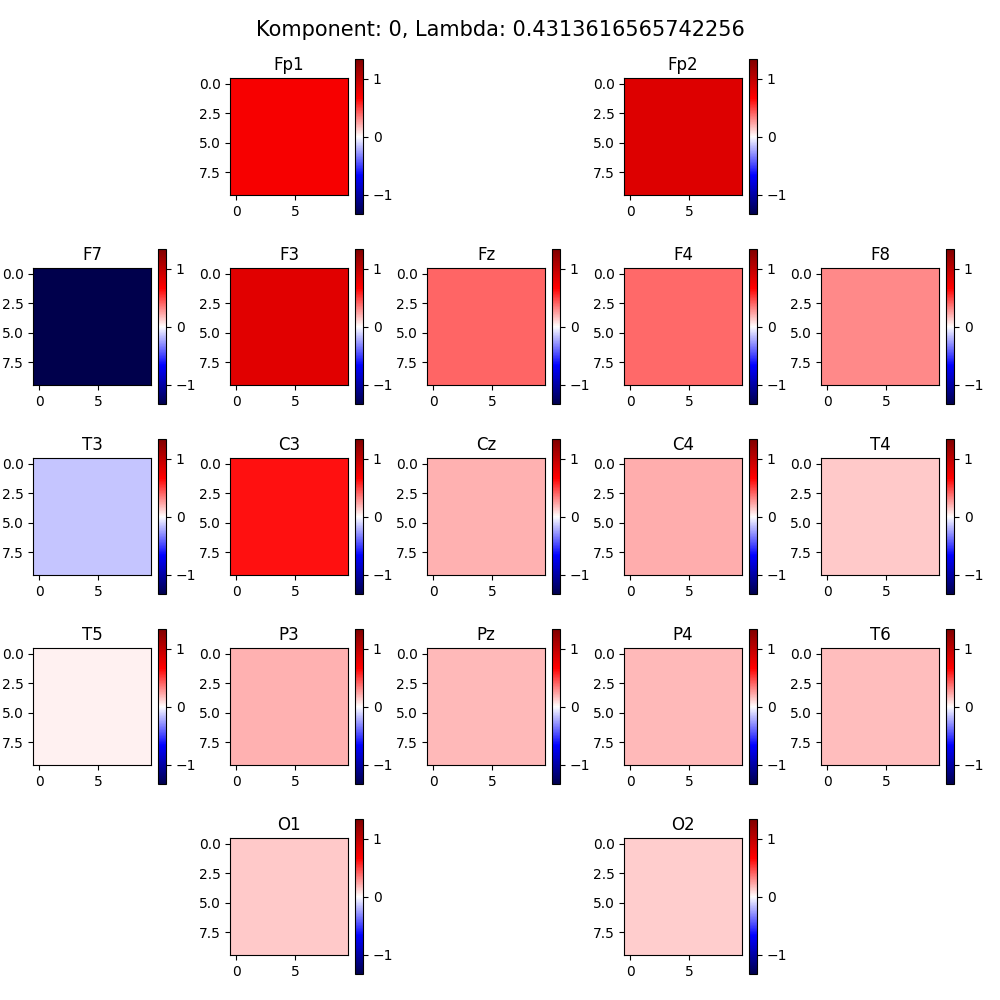
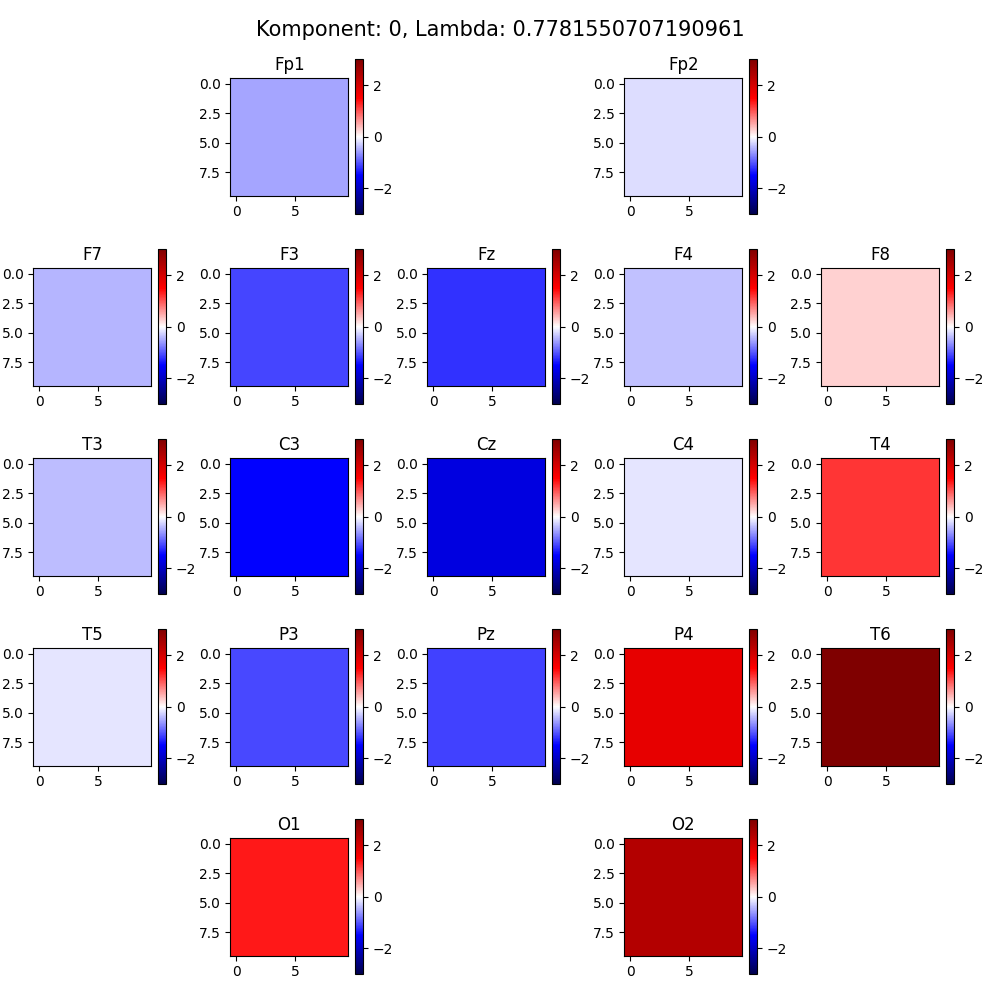
wybor dwoch featuresow

diff --git a/ERDS_main.py b/ERDS_main.py
@@ -67,7 +67,7 @@ ERDS_utils.rysunek_glowy(usr_SWP_norm, t, f, "Uśredniony Spektogram WyobPrawa n
 # ERDS_utils.rysunek_glowy(SWP_norm_sigm, t, f, "Uśredniony Spektrogram WyobPrawa normowany sigma", sigma=3)
 
 
-X_train, X_test, y_train, y_test = ERDS_training.podziel_dane_do_uczenia(daneRuchLewa, daneRuchPrawa)
+X_train, X_test, y_train, y_test = ERDS_training.podziel_dane_do_uczenia(daneWyobLewa, daneWyobPrawa)
 X_train_lewa = X_train[y_train == 0]
 X_train_prawa = X_train[y_train == 1]
 
@@ -78,18 +78,35 @@ C.componentsHeadImg()
 S_train = C.transform(X_train)
 S_test = C.transform(X_test)
 
-print("Wybierz właściwy komponent na podstawie rysunków (powinien zawierać aktywność na P3-P4): ", end="")
-numKomponent = int(input())
+print("Wybierz właściwy pierwszy komponent na podstawie rysunków (powinien zawierać aktywność na P3-P4): ", end="")
+numKomponent1 = int(input())
 
-SpektogramyRuchTrain, f_tab, t_tab = ERDS_utils.przygotuj_spektrogramy(S_train, numKomponent, fs=256, nperseg=128, noverlap=64)
-print(SpektogramyRuchTrain.shape)
+SpektogramyRuchTrain1, f_tab, t_tab = ERDS_utils.przygotuj_spektrogramy(S_train, numKomponent1, fs=256, nperseg=128, noverlap=64)
+SpektogramyRuchTest1, f_tab, t_tab = ERDS_utils.przygotuj_spektrogramy(S_test, numKomponent1, fs=256, nperseg=128, noverlap=64)
+print(SpektogramyRuchTrain1.shape)
+print(SpektogramyRuchTest1.shape)
 
-SpektogramyRuchTest, f_tab, t_tab = ERDS_utils.przygotuj_spektrogramy(S_test, numKomponent, fs=256, nperseg=128, noverlap=64)
-print(SpektogramyRuchTest.shape)
+print("Wybierz właściwy drugi komponent na podstawie rysunków: ", end="")
+numKomponent2 = int(input())
+
+SpektogramyRuchTrain2, f_tab, t_tab = ERDS_utils.przygotuj_spektrogramy(S_train, numKomponent2, fs=256, nperseg=128, noverlap=64)
+SpektogramyRuchTest2, f_tab, t_tab = ERDS_utils.przygotuj_spektrogramy(S_test, numKomponent2, fs=256, nperseg=128, noverlap=64)
+print(SpektogramyRuchTrain2.shape)
+print(SpektogramyRuchTest2.shape)
 
 # SpłaszczoneSpektogramy
-SSRTrain = SpektogramyRuchTrain.reshape(SpektogramyRuchTrain.shape[0], -1)
-SSRTest = SpektogramyRuchTest.reshape(SpektogramyRuchTest.shape[0], -1)
+SSRTrain1 = SpektogramyRuchTrain1.reshape(SpektogramyRuchTrain1.shape[0], -1)
+SSRTest1 = SpektogramyRuchTest1.reshape(SpektogramyRuchTest1.shape[0], -1)
+SSRTrain2 = SpektogramyRuchTrain1.reshape(SpektogramyRuchTrain2.shape[0], -1)
+SSRTest2 = SpektogramyRuchTest1.reshape(SpektogramyRuchTest2.shape[0], -1)
+print("Test shape: ", SSRTrain1.shape, SSRTrain2.shape)
+print("Train shape: ", SSRTest1.shape, SSRTest2.shape)
+
+SSRTrain = np.concatenate([SSRTrain1, SSRTrain2], axis=1)
+SSRTest = np.concatenate([SSRTest1, SSRTest2], axis=1)
+print(SSRTrain.shape)
+print(SSRTest.shape)
+
 
 print("\n===================\nRegresja Logistyczna\n===================")
 modelRL = ERDS_training.treningRegresjaLogistyczna(SSRTrain, y_train)
